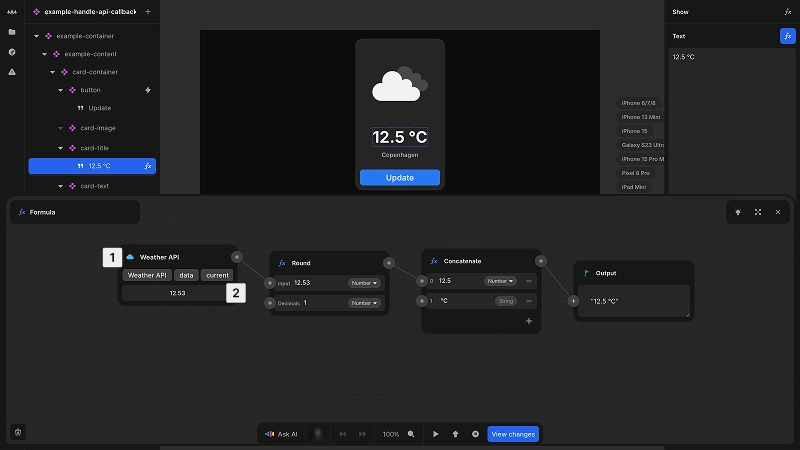
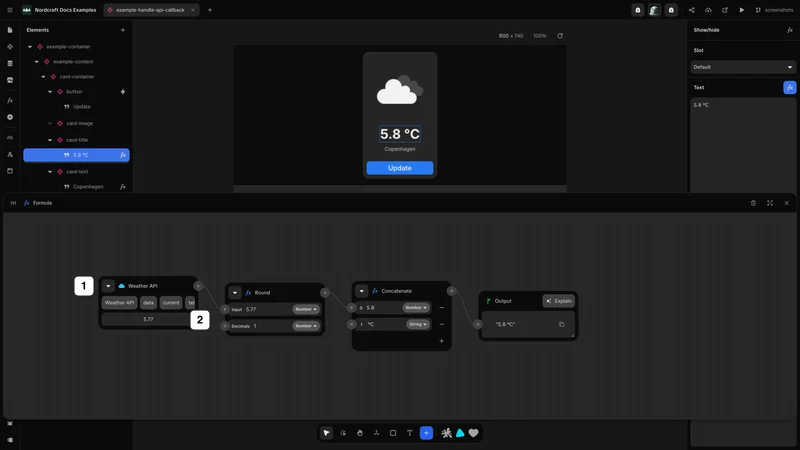
Adjust annotation tool + add screenshots

diff --git a/scripts/annotate.ts b/scripts/annotate.ts
@@ -1259,17 +1259,6 @@ async function main() {
           })
         }
 
-        const standardPath = path.resolve(
-          process.cwd(),
-          target.outputDir,
-          `${target.name}.webp`,
-        )
-        if (fs.existsSync(standardPath)) {
-          return new Response(Bun.file(standardPath), {
-            headers: { 'Content-Type': 'image/webp' },
-          })
-        }
-
         const largePath = path.resolve(
           process.cwd(),
           target.outputDir,
@@ -1277,6 +1266,17 @@ async function main() {
         )
         if (fs.existsSync(largePath)) {
           return new Response(Bun.file(largePath), {
+            headers: { 'Content-Type': 'image/webp' },
+          })
+        }
+
+        const standardPath = path.resolve(
+          process.cwd(),
+          target.outputDir,
+          `${target.name}.webp`,
+        )
+        if (fs.existsSync(standardPath)) {
+          return new Response(Bun.file(standardPath), {
             headers: { 'Content-Type': 'image/webp' },
           })
         }

diff --git a/docs/connecting-data/call-an-api/access-api-data.screenshot.ts b/docs/connecting-data/call-an-api/access-api-data.screenshot.ts
@@ -1,0 +1,26 @@
+import { defineScreenshot } from '@/scripts/capture-screenshots'
+import type { Page } from 'playwright'
+
+// Placeholder script for access-api-data.webp
+export default defineScreenshot({
+  path: '/projects/docs_examples/branches/screenshots/components/example-handle-api-callback?mode=design&canvas-tool=select&canvas-width=800&selection=nodes.rVORZmlwQvSBCbaGDUZfg.value&rightpanel=style',
+  setup: async (page: Page) => {
+    await page.waitForTimeout(500)
+    await page.locator('#formula-canvas').click()
+    await page.waitForTimeout(100)
+  },
+  annotations: [
+    {
+      type: 'badge',
+      x: 74,
+      y: 276,
+      text: '1'
+    },
+    {
+      type: 'badge',
+      x: 190,
+      y: 310,
+      text: '2'
+    }
+  ],
+})
